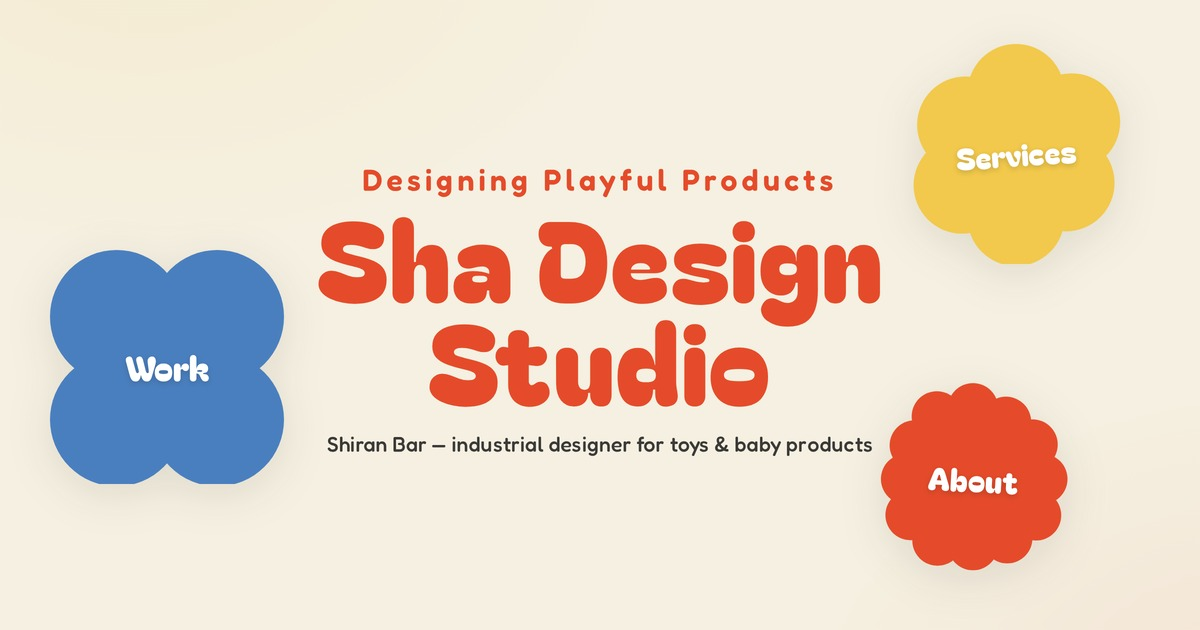
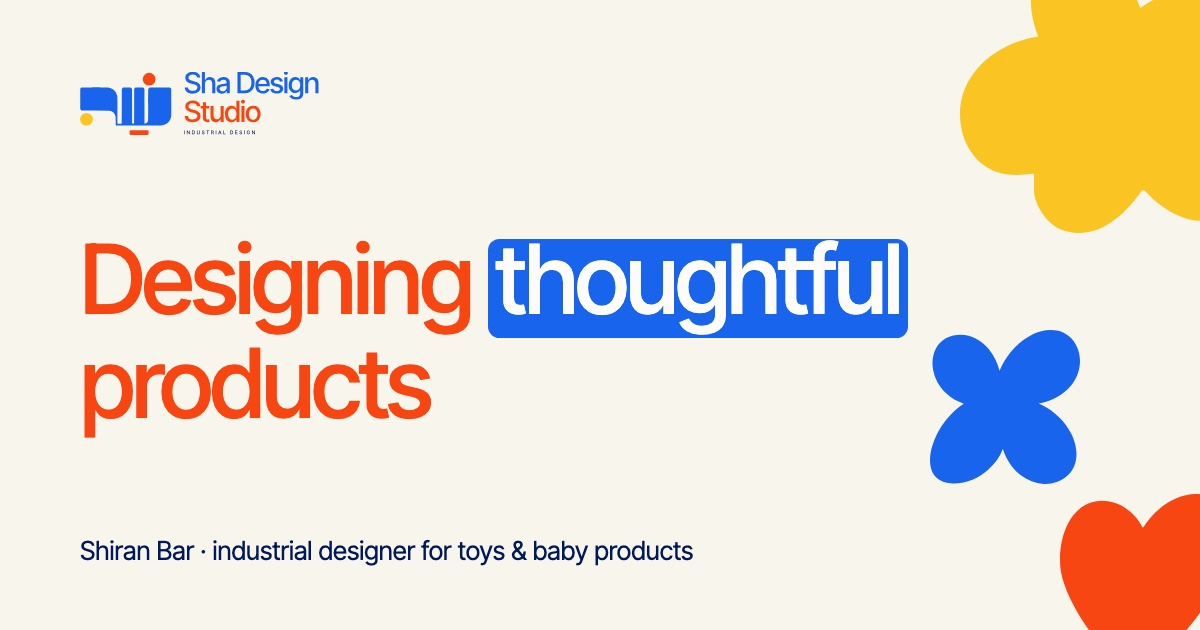
chore: close brand kit v3 open items
- gitignore .impeccable/ critiques
- PRODUCT.md describes kit v3 (Inter Tight, calm motion)
- new og share image from the kit; titles match the hero
- add .eslintrc.cjs and fix the lint findings

diff --git a/index.html b/index.html
@@ -8,7 +8,7 @@
     <meta name="viewport" content="width=device-width, initial-scale=1.0" />
     <meta name="description" content="Sha Design Studio — Designing playful, thoughtful products. Industrial design for toys and baby products by Shiran Bar." />
     <meta name="theme-color" content="#f8f5ec" />
-    <title>Sha Design Studio — Designing Playful Thoughtful Products</title>
+    <title>Sha Design Studio — Designing Thoughtful Products</title>
 
     <!-- Canonical + social share metadata. Kept in the STATIC head (not injected
          client-side) because social scrapers don't run JS. Absolute URLs point
@@ -18,16 +18,16 @@
     <meta property="og:type" content="website" />
     <meta property="og:site_name" content="Sha Design Studio" />
     <meta property="og:url" content="https://shadesignstudio.com/" />
-    <meta property="og:title" content="Sha Design Studio — Designing Playful Products" />
+    <meta property="og:title" content="Sha Design Studio — Designing Thoughtful Products" />
     <meta property="og:description" content="Shiran Bar — industrial designer for toys & baby products." />
     <meta property="og:image" content="https://shadesignstudio.com/sha-og-image.jpg" />
     <meta property="og:image:type" content="image/jpeg" />
     <meta property="og:image:width" content="1200" />
     <meta property="og:image:height" content="630" />
-    <meta property="og:image:alt" content="Sha Design Studio — playful wordmark with Work, Services and About badges." />
+    <meta property="og:image:alt" content="Sha Design Studio logo above the headline Designing thoughtful products, with yellow, blue and red brand shapes." />
 
     <meta name="twitter:card" content="summary_large_image" />
-    <meta name="twitter:title" content="Sha Design Studio — Designing Playful Products" />
+    <meta name="twitter:title" content="Sha Design Studio — Designing Thoughtful Products" />
     <meta name="twitter:description" content="Shiran Bar — industrial designer for toys & baby products." />
     <meta name="twitter:image" content="https://shadesignstudio.com/sha-og-image.jpg" />
   </head>

diff --git a/src/components/layout/Navbar.jsx b/src/components/layout/Navbar.jsx
@@ -53,6 +53,7 @@ function Navbar() {
     if (!mobileOpen) return undefined;
 
     const { body } = document;
+    const toggle = toggleRef.current;
     const prevOverflow = body.style.overflow;
     body.style.overflow = 'hidden';
 
@@ -94,7 +95,7 @@ function Navbar() {
       body.style.overflow = prevOverflow; // restore exactly what was there
       document.removeEventListener('keydown', onKeyDown);
       // Return focus to the trigger (standard dialog pattern)
-      toggleRef.current?.focus();
+      toggle?.focus();
     };
   }, [mobileOpen]);
 
@@ -130,11 +131,7 @@ function Navbar() {
                     `navbar__link${isActive ? ' navbar__link--active' : ''}`
                   }
                 >
-                  {({ isActive }) => (
-                    <>
-                      <span className="navbar__link-label">{item.label}</span>
-                    </>
-                  )}
+                  <span className="navbar__link-label">{item.label}</span>
                 </NavLink>
               </li>
             ))}

diff --git a/src/components/ui/BrandShape.jsx b/src/components/ui/BrandShape.jsx
@@ -20,6 +20,7 @@ import './BrandShape.css';
 // Keyed by shape, colour-agnostic: `inlineSvg` strips each file's baked fill so
 // the path renders in `currentColor` and a wrapper's CSS `color` tints it.
 // (blob1/2/3 are three distinct blob paths; splat1/2 and flower1/2 likewise.)
+// eslint-disable-next-line react-refresh/only-export-components
 export const GEO = {
   blob1: inlineSvg(blob1Raw),
   blob2: inlineSvg(blob2Raw),

diff --git a/src/components/ui/HeadlineMorph.jsx b/src/components/ui/HeadlineMorph.jsx
@@ -220,7 +220,6 @@ function HeadlineMorph({ text, className = '', excludeColors = [] }) {
   return (
     <span className={`hm ${className}`.trim()} aria-label={text} role="img">
       {words.map((letters, wi) => (
-        // eslint-disable-next-line react/no-array-index-key
         <span key={`w-${wi}`}>
           {wi > 0 && <span className="hm__space"> </span>}
           <span className="hm__word">

diff --git a/PRODUCT.md b/PRODUCT.md
@@ -22,11 +22,13 @@ study and sends the inquiry form.
 
 ## Brand Personality
 
-Warm, confident, playful-not-cute. "The Playroom" direction: playful
-editorial. Cream canvas, orange heartbeat, yellow warmth, blue quiet
-confidence, ink for type. Chunky rounded display face (Bagel Fat One) +
-Fredoka body. Soft intentional motion — wobbles and blooms, never showy.
-"Way cool!" is the upper bound; never baby-talk.
+Warm, confident, calm. Brand kit v3 (October 2026, source in the local
+`Sha-Brand-Kit/` folder; tokens in `src/styles/tokens.css`). Cream canvas with
+three primaries: pool blue, yolk yellow, tomato orange. Ink navy for all
+running text, never black. Inter Tight only: 500 for headlines and UI, 400 for
+text, no bold. Headlines are in colour with exactly one phrase in a solid
+highlight block (`.hl`). Flat everywhere: no shadows, no gradients, every
+clickable thing is a pill. Never baby-talk.
 
 ## Anti-references
 
@@ -41,17 +43,18 @@ Fredoka body. Soft intentional motion — wobbles and blooms, never showy.
 1. **The work is the hero.** Real shipped products, photographed, one click
    from their case study.
 2. **One dominant accent per section.** Each beat is unmistakably cream,
-   orange, yellow, blue, or ink — never piled up.
-3. **Toys on a shelf, not files in a drawer.** Slight tilts, asymmetric
-   grids, varied section geometry; avoid identical repeated containers.
+   tomato, yolk, pool, or night — never piled up.
+3. **Calm, not flamboyant.** No tilts, wobbles or decorative clutter; the
+   client asked for a cleaner, quieter site.
 4. **Playful means specific.** Curiosity, giggles, factory floors — concrete
    details over generic delight.
-5. **Soft, intentional motion.** Bloom/settle easings, reduced-motion
-   fallbacks always.
+5. **Quick, then still.** Colour swaps over 220 ms, cards rise 16 px over
+   600 ms, the home hero's shapes snap in on scroll. Nothing bounces, loops or
+   overshoots. Reduced motion drops the rise and keeps the colour swaps.
 
 ## Accessibility & Inclusion
 
-WCAG AA for all text pairs (documented per-token in `tokens.css`). Brand
-orange/blue are large-text-only mid-tones; body text sits on deep shades or
-cream/ink. 44px touch targets, visible focus rings themed per route,
+WCAG AA for all text pairs (documented per-token in `tokens.css`). Ink on
+tomato and yolk, paper on pool; never tomato letters on yolk or yolk letters
+on tomato. 44px touch targets, visible focus rings themed per route,
 `prefers-reduced-motion` honored on every animation.
